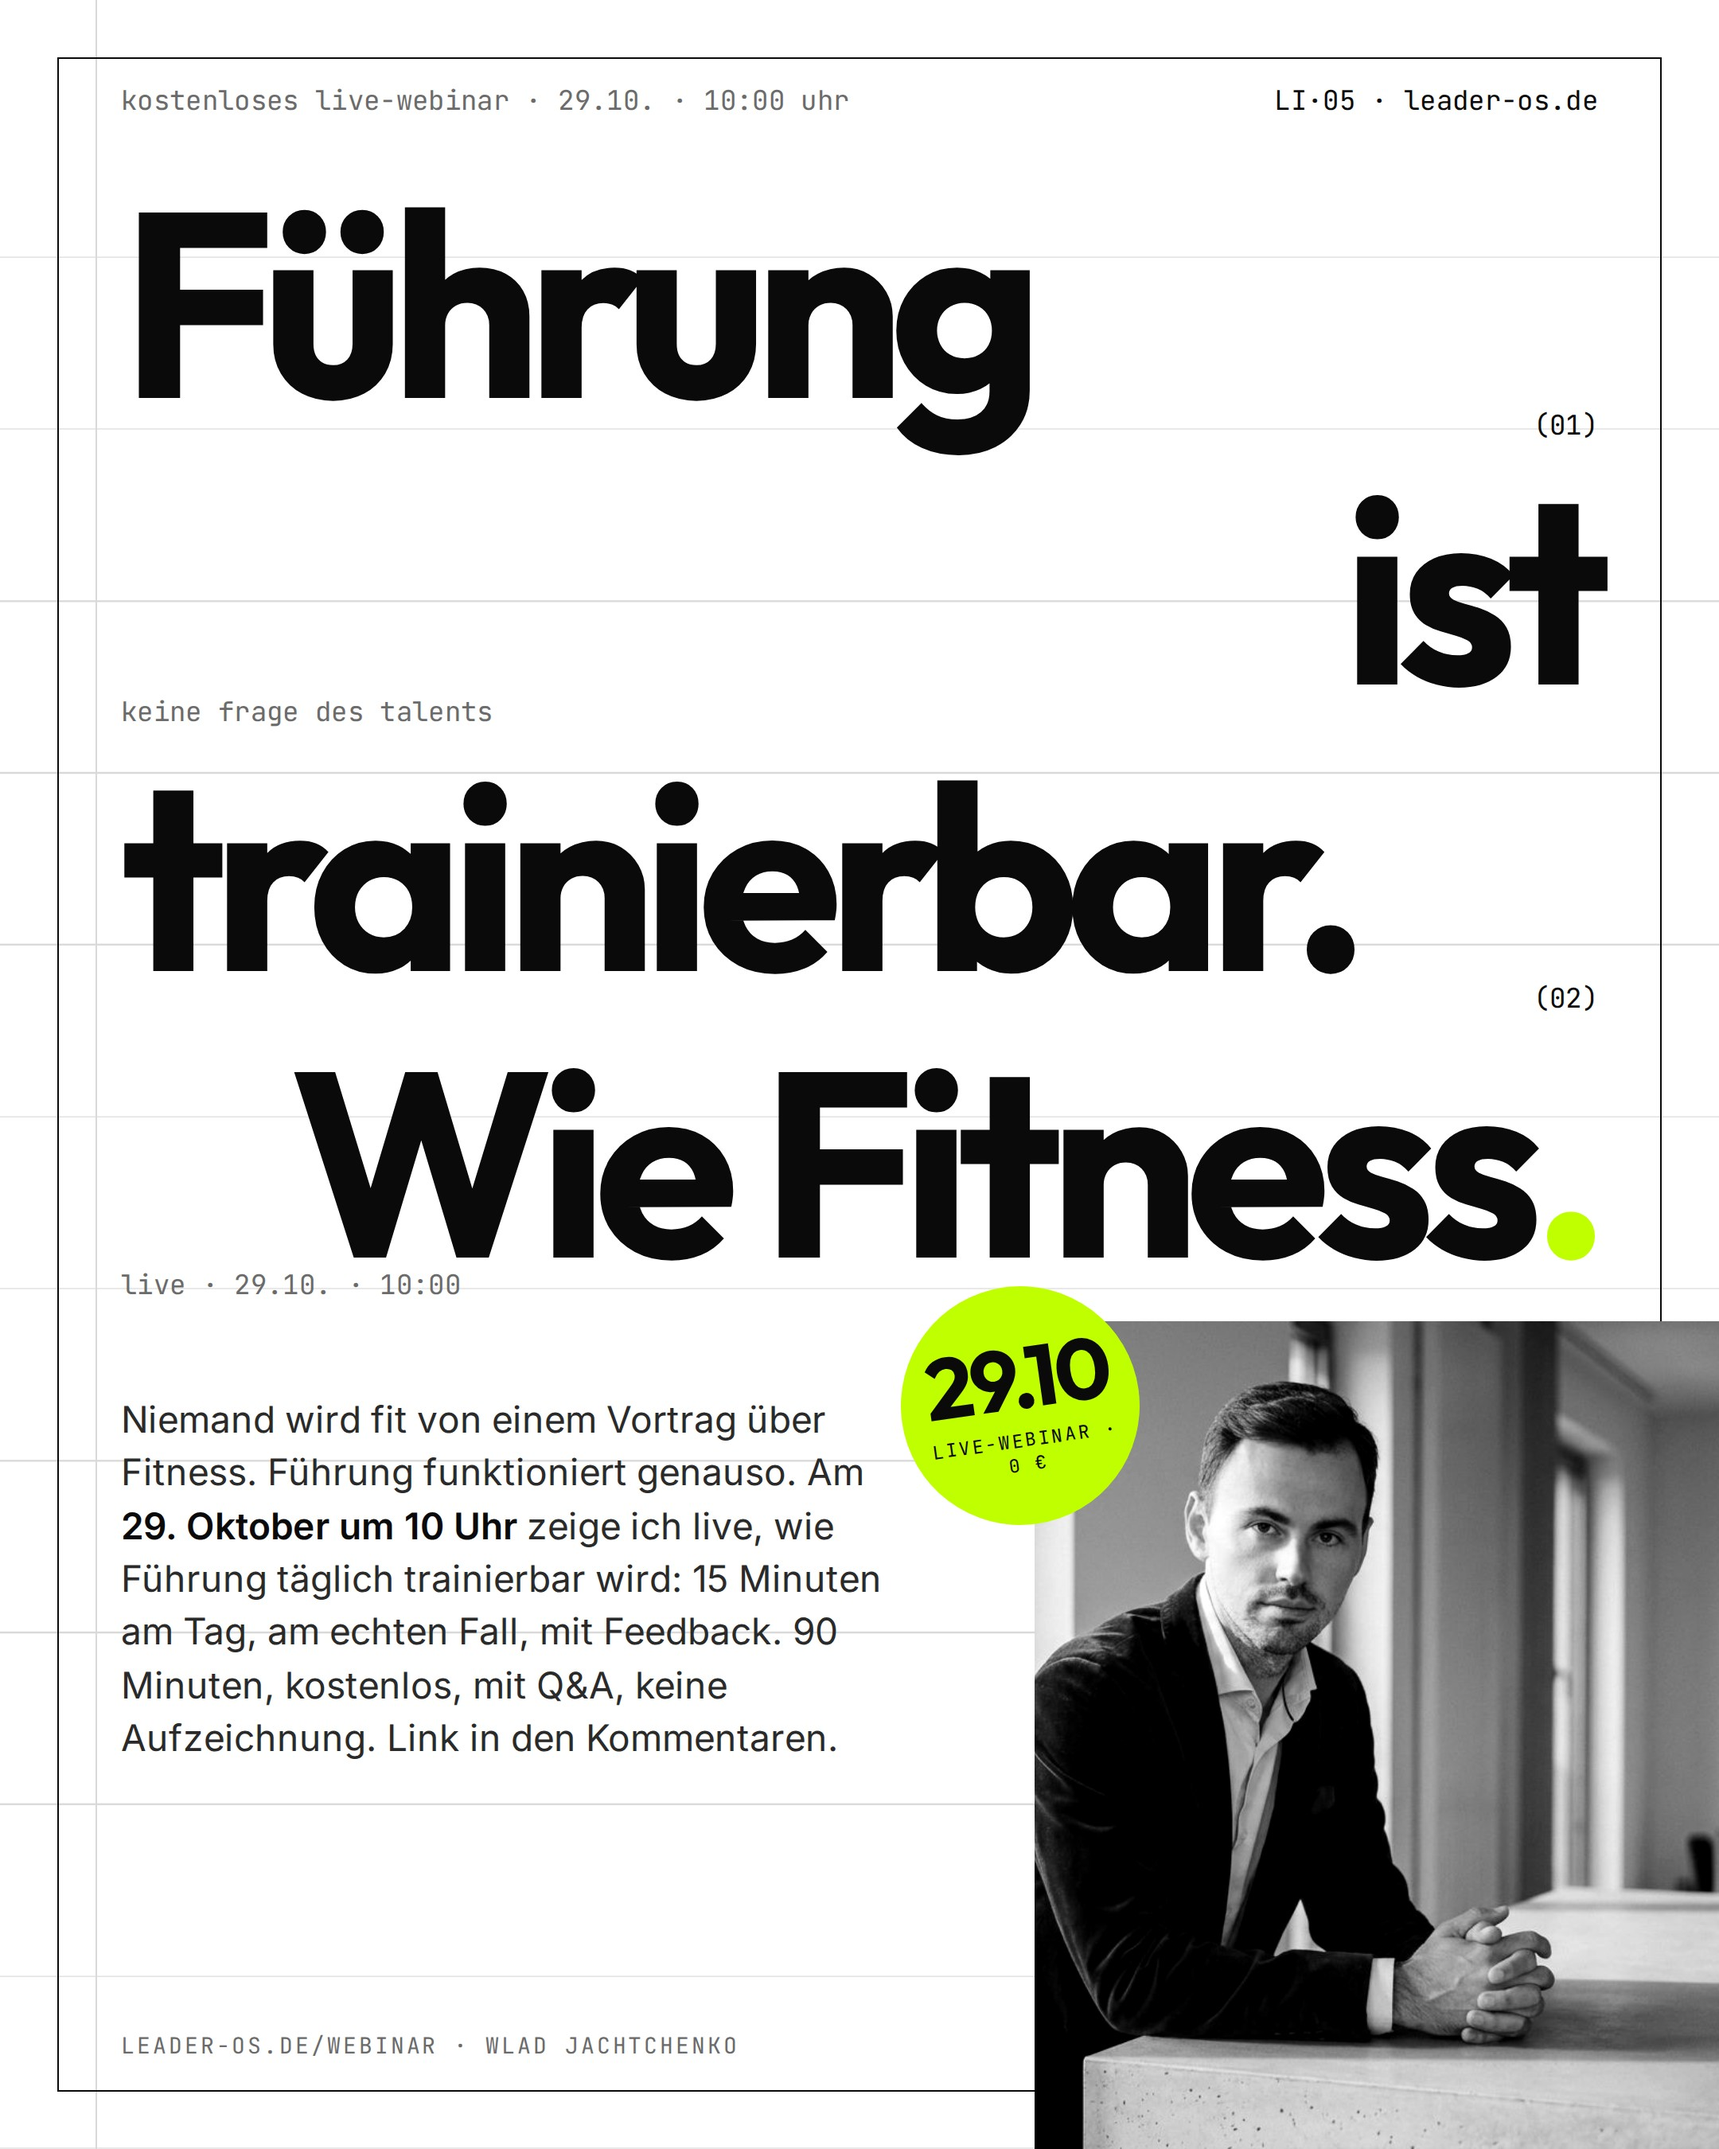
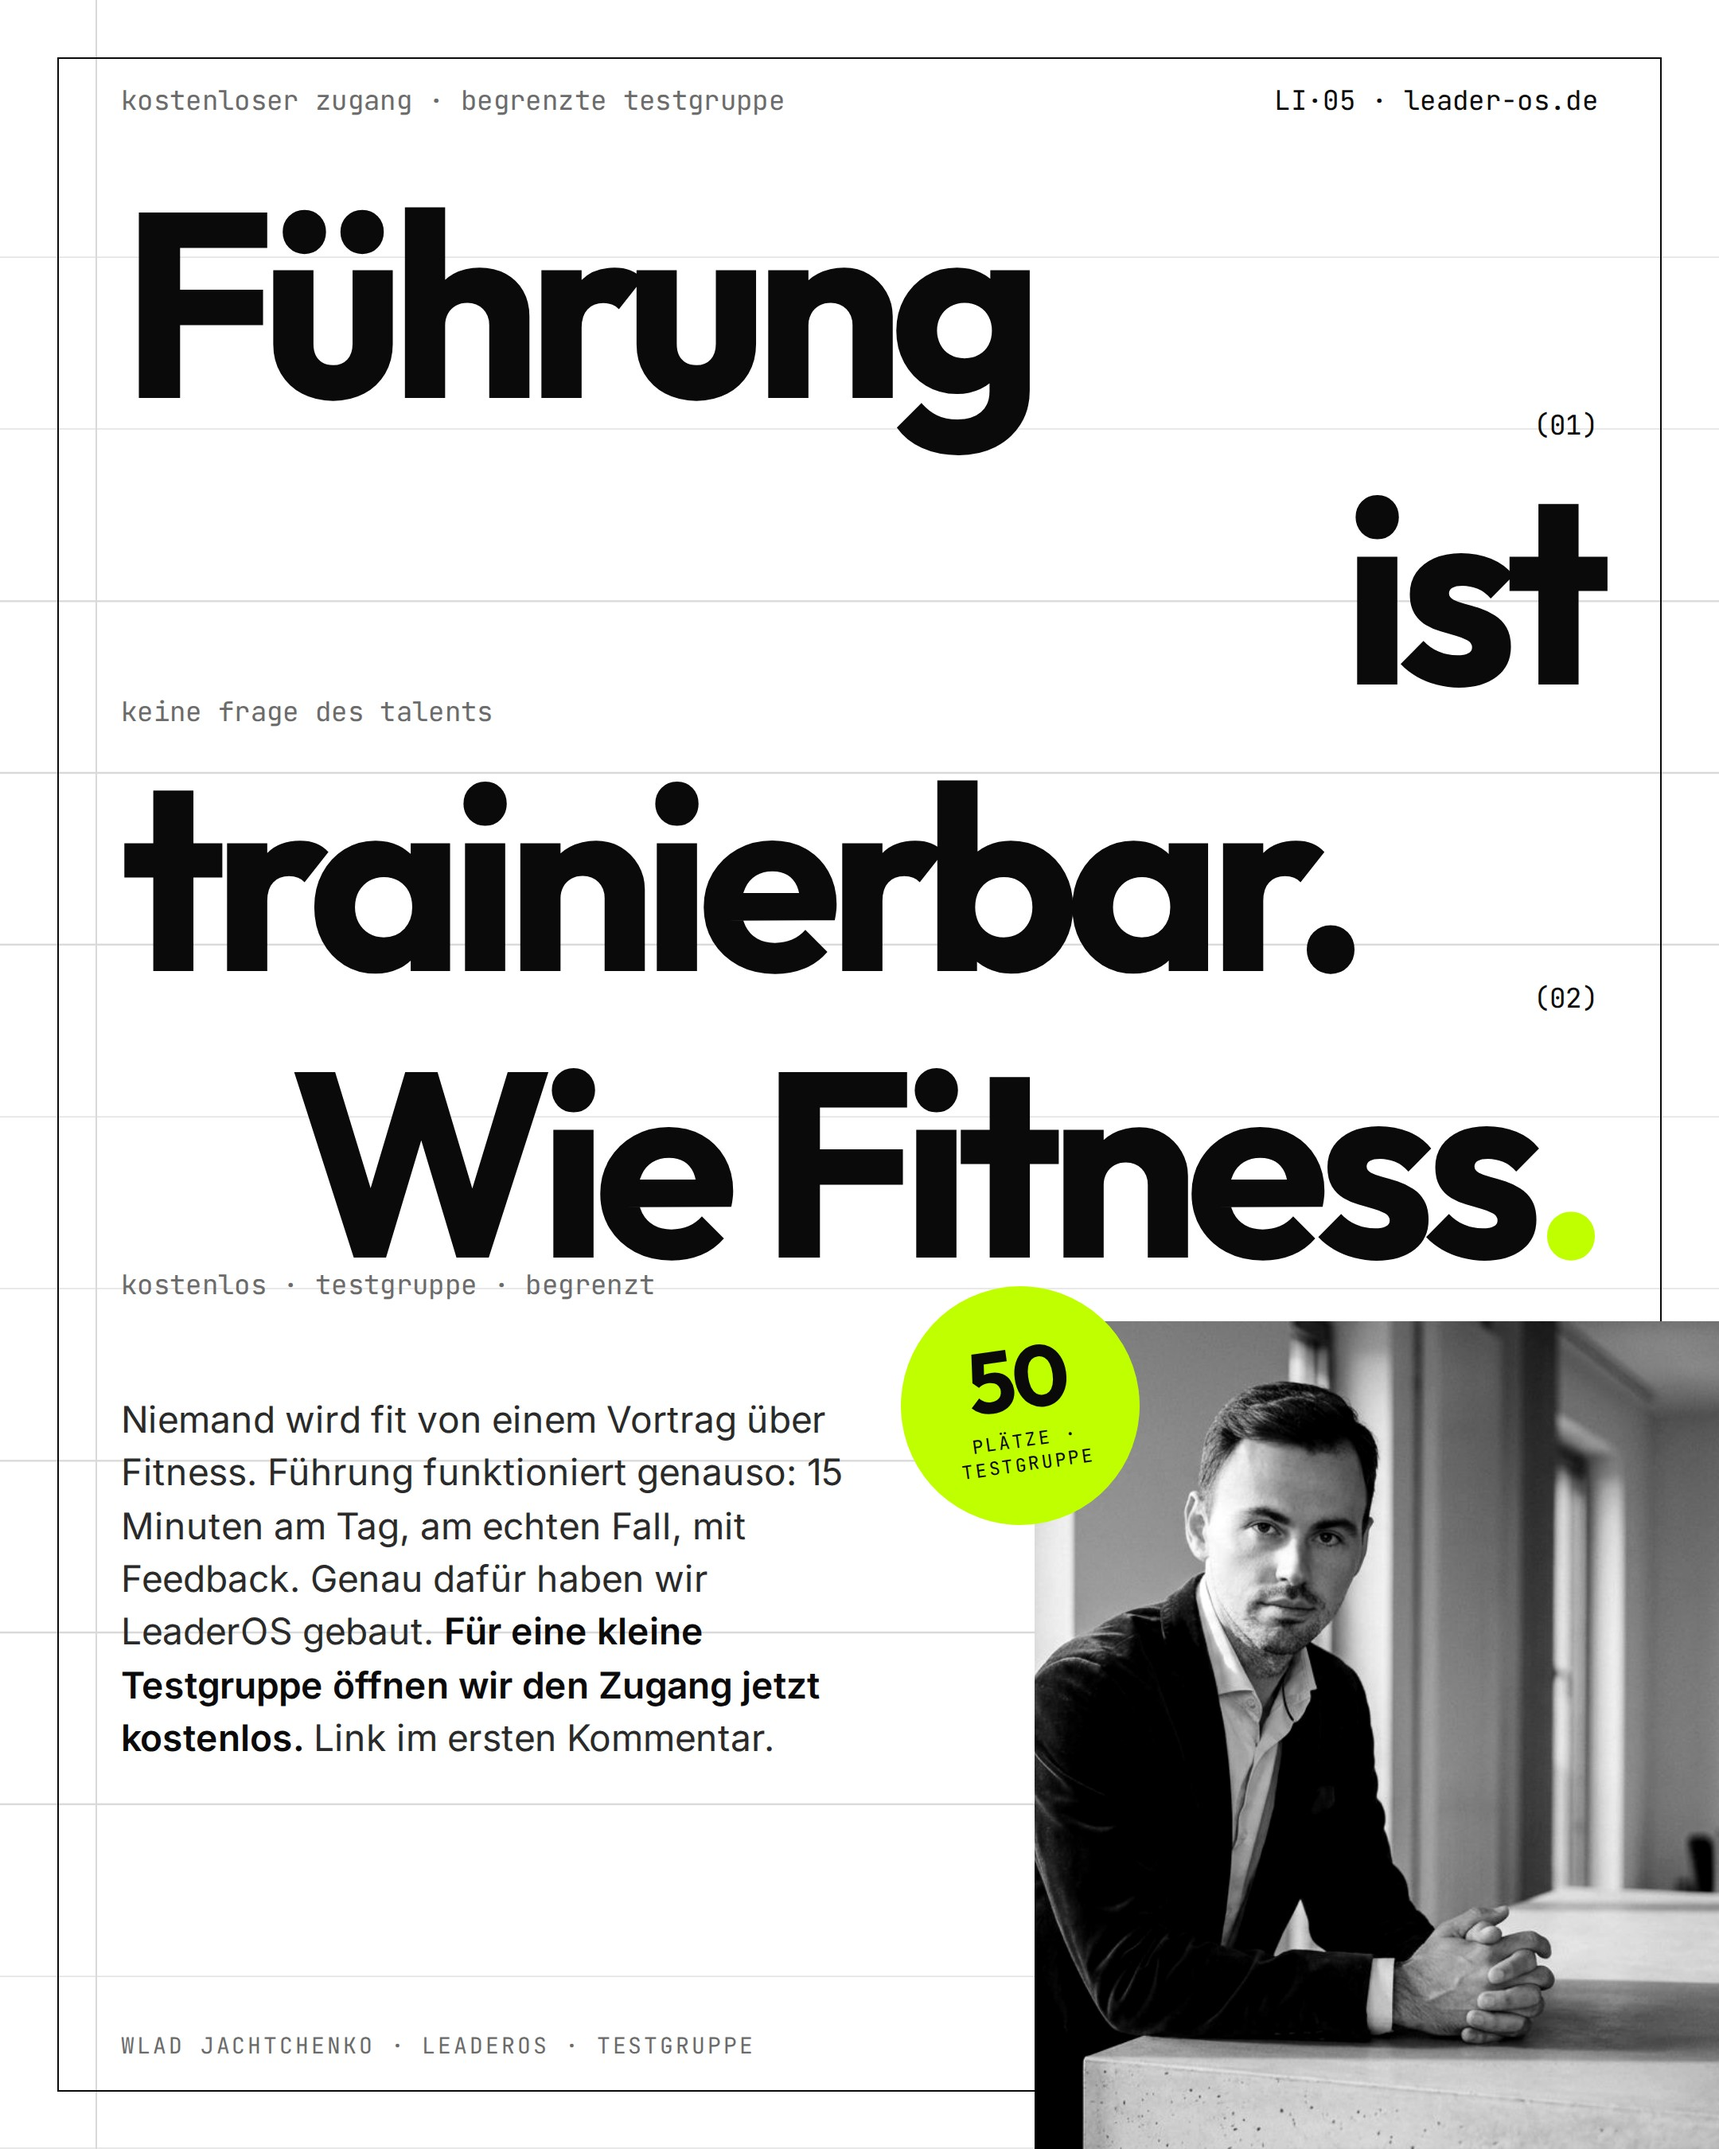
gtm: LinkedIn poster LI-05 switches to the test-group CTA
No webinar date in social content: LI-05 now invites to the free,
limited test group (sticker 50 Plätze, mono top line, caption and first
comment rewritten). Schedule note points to the carousel captions for
the target link.

Claude-Session: https://claude.ai/code/session_01HvYhQa8TWys2AAXqNzfktV

diff --git a/docs/gtm/linkedin-wlad-01/poster.html b/docs/gtm/linkedin-wlad-01/poster.html
@@ -112,12 +112,12 @@ const POSTS = [
       ['Führung', 'left', null, '(01)'],
       ['ist', 'right', 'keine frage des talents', null],
       ['trainierbar.', 'left', null, '(02)'],
-      ['Wie Fitness', 'right', 'live · 29.10. · 10:00', null, true],
+      ['Wie Fitness', 'right', 'kostenlos · testgruppe · begrenzt', null, true],
     ],
-    body: 'Niemand wird fit von einem Vortrag über Fitness. Führung funktioniert genauso. Am <b>29. Oktober um 10 Uhr</b> zeige ich live, wie Führung täglich trainierbar wird: 15 Minuten am Tag, am echten Fall, mit Feedback. 90 Minuten, kostenlos, mit Q&A, keine Aufzeichnung. Link in den Kommentaren.',
-    sticker: ['29.10', 'Live-Webinar · 0 €'],
-    foot: 'leader-os.de/webinar · Wlad Jachtchenko',
-    top: ['kostenloses live-webinar · 29.10. · 10:00 uhr', 'leader-os.de'],
+    body: 'Niemand wird fit von einem Vortrag über Fitness. Führung funktioniert genauso: 15 Minuten am Tag, am echten Fall, mit Feedback. Genau dafür haben wir LeaderOS gebaut. <b>Für eine kleine Testgruppe öffnen wir den Zugang jetzt kostenlos.</b> Link im ersten Kommentar.',
+    sticker: ['50', 'Plätze · Testgruppe'],
+    foot: 'Wlad Jachtchenko · LeaderOS · Testgruppe',
+    top: ['kostenloser zugang · begrenzte testgruppe', 'leader-os.de'],
   },
 ];
 

diff --git a/docs/gtm/linkedin-wlad-01/CAPTIONS.md b/docs/gtm/linkedin-wlad-01/CAPTIONS.md
@@ -13,7 +13,12 @@ jeden Post vorab frei (Mail), Max postet oder Mert nach Freigabe der
 Inhaltsadmin-Rechte.
 
 **Reihenfolge und Takt:** LI-01 Do 23.10. · LI-02 Sa 25.10. · LI-03 Mo 27.10.
-· LI-05 Di 28.10. (Webinar-CTA, Tag vor dem Termin) · LI-04 Do 30.10.
+· LI-05 Di 28.10. (Testgruppen-CTA) · LI-04 Do 30.10.
+
+**CTA:** kein Webinar, kein Termin. Der Aufruf ist der kostenlose Zugang für
+eine begrenzte Testgruppe (Zahl auf dem Poster: 50, muss der echten
+Begrenzung entsprechen). Link für den ersten Kommentar: siehe
+`docs/gtm/linkedin-carousels-01/CAPTIONS.md`.
 Beste Zeiten: 7:30–8:30 Uhr oder 12:00–13:00 Uhr.
 
 ---
@@ -37,7 +42,7 @@ Was hast du aus deinem letzten Führungsseminar noch im Alltag? Ehrlich.
 
 #Leadership #Führung #Kommunikation #Training
 
-> Erster Kommentar: „Wie das Training konkret aussieht, zeige ich am 29.10. um 10 Uhr live, kostenlos: leader-os.de/webinar"
+> Erster Kommentar: „Wir öffnen LeaderOS für eine kleine Testgruppe, kostenlos: [Link]"
 
 ---
 
@@ -119,30 +124,22 @@ Welcher der sechs Schritte fehlt in deinem nächsten Meeting am ehesten?
 
 ---
 
-## LI-05 · Führung ist trainierbar. Wie Fitness. (Webinar-CTA, 28.10.)
+## LI-05 · Führung ist trainierbar. Wie Fitness. (Testgruppen-CTA)
 
-Morgen um 10 Uhr zeige ich zum ersten Mal live,
-wie Führung täglich trainierbar wird.
+Niemand wird fit von einem Vortrag über Fitness.
+Führung funktioniert genauso.
 
-Nicht als Vortrag. Als System.
+Kurze Einheiten, echte Situationen, Feedback, das sofort kommt. Nicht einmal im Jahr zwei Tage, sondern jeden Tag 15 Minuten, am Fall von morgen.
 
-90 Minuten, kostenlos, mit Q&A. Keine Aufzeichnung, das ist Absicht: Live kommen deine Fragen dran, nicht die aus dem Skript.
+Genau dafür haben wir LeaderOS gebaut: meine Methodik als tägliches Training. Die Frameworks aus den Büchern, ein KI-Coach, der sie kennt, Simulationen mit einem Gegenüber, das zurückredet.
 
-Worum es geht:
-· Warum Seminare Wissen verändern, aber kein Verhalten.
-· Wie 15 Minuten am Tag mehr bewegen als zwei Tage im Jahr.
-· Ein echter Führungsfall aus der Community, gemeinsam durchgearbeitet.
-· Die Frameworks dahinter: Feedbackformel, die 10 Stufen des Zuhörens, SEXIER.
-
-Für Führungskräfte und alle, die es werden wollen. Keine Vorkenntnisse nötig, nur eine E-Mail-Adresse.
-
-Donnerstag, 29. Oktober, 10:00 bis 11:30 Uhr, online. Link in den Kommentaren.
+Wir öffnen den Zugang jetzt für eine kleine Testgruppe von Führungskräften. Kostenlos, begrenzte Plätze, kein Abo. Wer dabei sein will: Link im ersten Kommentar.
 
 Wer ist dabei?
 
-#Leadership #Webinar #Führung #LeaderOS
+#Leadership #Führung #Training #LeaderOS
 
-> Erster Kommentar: „Hier anmelden, kostenlos: leader-os.de/webinar"
+> Erster Kommentar: „Testgruppe, kostenlos, begrenzte Plätze: [Link]"
 
 ---
 
